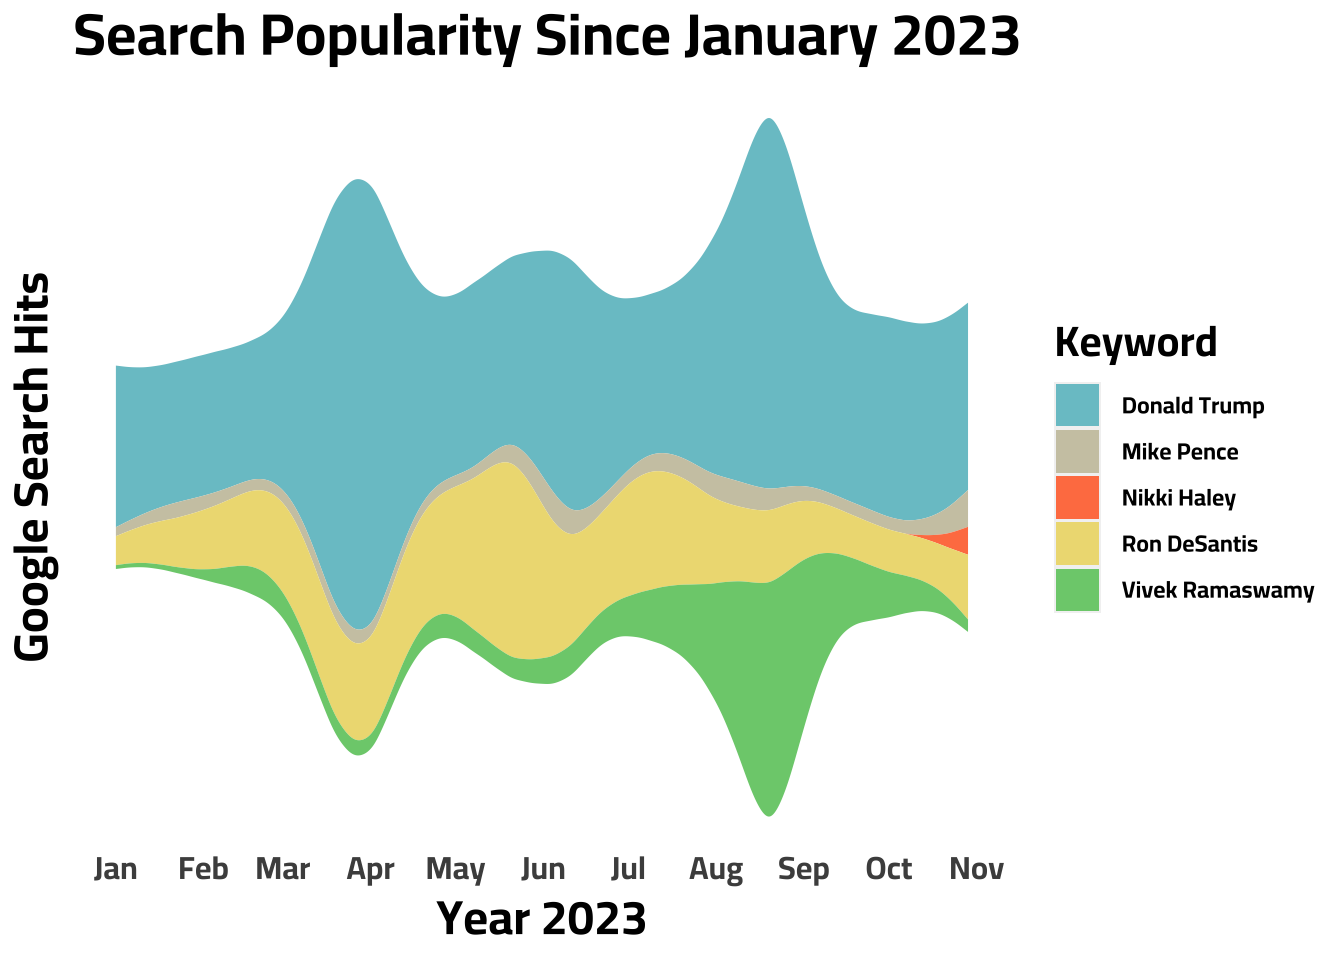
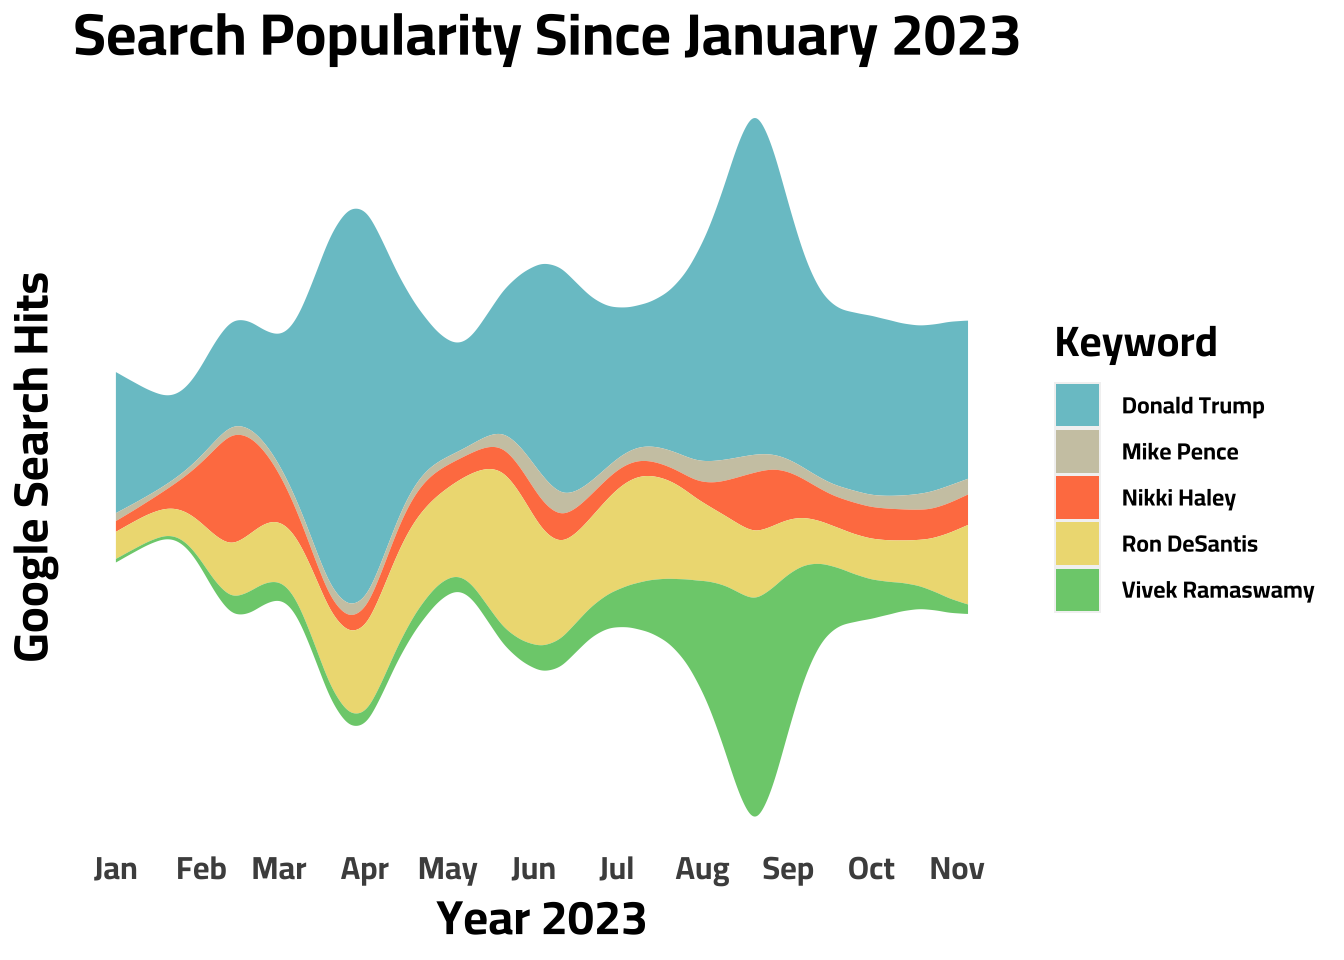
StreamGraph Update

diff --git a/_site/blog.html b/_site/blog.html
@@ -178,7 +178,7 @@ ul.task-list li input[type="checkbox"] {
 
 <div class="quarto-listing quarto-listing-container-default" id="listing-listing">
 <div class="list quarto-listing-default">
-<div class="quarto-post image-right" data-index="0" data-categories="Life Hacks,Commentary" data-listing-date-sort="1697760000000" data-listing-file-modified-sort="1699186896360" data-listing-date-modified-sort="NaN" data-listing-reading-time-sort="8">
+<div class="quarto-post image-right" data-index="0" data-categories="Life Hacks,Commentary" data-listing-date-sort="1697760000000" data-listing-file-modified-sort="1699532613832" data-listing-date-modified-sort="NaN" data-listing-reading-time-sort="8">
 <div class="thumbnail">
 <p><a href="./posts/path_to_datascience/index.html"> <img src="./posts/path_to_datascience/tile.png" class="thumbnail-image"> </a></p>
 </div>
@@ -209,7 +209,7 @@ Oct 20, 2023
 </a>
 </div>
 </div>
-<div class="quarto-post image-right" data-index="1" data-categories="Google Trends,Data Journalism,Politics,CICD" data-listing-date-sort="1696377600000" data-listing-file-modified-sort="1699186896361" data-listing-date-modified-sort="NaN" data-listing-reading-time-sort="7">
+<div class="quarto-post image-right" data-index="1" data-categories="Google Trends,Data Journalism,Politics,CICD" data-listing-date-sort="1696377600000" data-listing-file-modified-sort="1699532613833" data-listing-date-modified-sort="NaN" data-listing-reading-time-sort="7">
 <div class="thumbnail">
 <p><a href="./posts/primary_stream/index.html"> <img src="././about_files/primary_1.png" class="thumbnail-image"> </a></p>
 </div>
@@ -246,7 +246,7 @@ Oct 4, 2023
 </a>
 </div>
 </div>
-<div class="quarto-post image-right" data-index="2" data-categories="CICD,Quarto" data-listing-date-sort="1694044800000" data-listing-file-modified-sort="1699186896355" data-listing-date-modified-sort="NaN" data-listing-reading-time-sort="8">
+<div class="quarto-post image-right" data-index="2" data-categories="CICD,Quarto" data-listing-date-sort="1694044800000" data-listing-file-modified-sort="1699532613828" data-listing-date-modified-sort="NaN" data-listing-reading-time-sort="8">
 <div class="thumbnail">
 <p><a href="./posts/cicd_primary/index.html"> <img src="https://external-content.duckduckgo.com/iu/?u=https%3A%2F%2Fwww.adictosaltrabajo.com%2Fwp-content%2Fuploads%2F2020%2F10%2Fandroid-github-actions-setup-image-35b6a79fea4a7289acb6796cd4ad05b4.png&amp;f=1&amp;nofb=1&amp;ipt=b02a4ecfb6e2d666f35916b643a6f3e9907e880252d1e19d3eda47521252e9c3&amp;ipo=images" class="thumbnail-image"> </a></p>
 </div>
@@ -277,7 +277,7 @@ Sep 7, 2023
 </a>
 </div>
 </div>
-<div class="quarto-post image-right" data-index="3" data-categories="Life Hacks,Quarto" data-listing-date-sort="1688601600000" data-listing-file-modified-sort="1699186896364" data-listing-date-modified-sort="NaN" data-listing-reading-time-sort="3">
+<div class="quarto-post image-right" data-index="3" data-categories="Life Hacks,Quarto" data-listing-date-sort="1688601600000" data-listing-file-modified-sort="1699532613834" data-listing-date-modified-sort="NaN" data-listing-reading-time-sort="3">
 <div class="thumbnail">
 <p><a href="./posts/simple_analytics/index.html"> <img src="./about_files/Simple_Analytics.png" class="thumbnail-image"> </a></p>
 </div>
@@ -308,7 +308,7 @@ Jul 6, 2023
 </a>
 </div>
 </div>
-<div class="quarto-post image-right" data-index="4" data-categories="Data Journalism,Google Trends,Politics" data-listing-date-sort="1687824000000" data-listing-file-modified-sort="1699186896356" data-listing-date-modified-sort="NaN" data-listing-reading-time-sort="7">
+<div class="quarto-post image-right" data-index="4" data-categories="Data Journalism,Google Trends,Politics" data-listing-date-sort="1687824000000" data-listing-file-modified-sort="1699532613828" data-listing-date-modified-sort="NaN" data-listing-reading-time-sort="7">
 <div class="thumbnail">
 <p><a href="./posts/google_trends/index.html"> <img src="./about_files/byteman.png" class="thumbnail-image"> </a></p>
 </div>
@@ -342,7 +342,7 @@ Jun 27, 2023
 </a>
 </div>
 </div>
-<div class="quarto-post image-right" data-index="5" data-categories="Data Journalism,LDS,R" data-listing-date-sort="1675728000000" data-listing-file-modified-sort="1699186896356" data-listing-date-modified-sort="NaN" data-listing-reading-time-sort="4">
+<div class="quarto-post image-right" data-index="5" data-categories="Data Journalism,LDS,R" data-listing-date-sort="1675728000000" data-listing-file-modified-sort="1699532613829" data-listing-date-modified-sort="NaN" data-listing-reading-time-sort="4">
 <div class="thumbnail">
 <p><a href="./posts/income_myth/index.html"> <img src="./about_files/LDS_myth_0.png" class="thumbnail-image"> </a></p>
 </div>
@@ -376,7 +376,7 @@ Feb 7, 2023
 </a>
 </div>
 </div>
-<div class="quarto-post image-right" data-index="6" data-categories="Life Hacks,Quarto" data-listing-date-sort="1662076800000" data-listing-file-modified-sort="1699186896362" data-listing-date-modified-sort="NaN" data-listing-reading-time-sort="4">
+<div class="quarto-post image-right" data-index="6" data-categories="Life Hacks,Quarto" data-listing-date-sort="1662076800000" data-listing-file-modified-sort="1699532613834" data-listing-date-modified-sort="NaN" data-listing-reading-time-sort="4">
 <div class="thumbnail">
 <p><a href="./posts/resume/index.html"> <img src="./about_files/resume_2.png" class="thumbnail-image"> </a></p>
 </div>
@@ -407,7 +407,7 @@ Sep 2, 2022
 </a>
 </div>
 </div>
-<div class="quarto-post image-right" data-index="7" data-categories="Survey Research,Data Journalism,LDS" data-listing-date-sort="1646265600000" data-listing-file-modified-sort="1699186896353" data-listing-date-modified-sort="NaN" data-listing-reading-time-sort="7">
+<div class="quarto-post image-right" data-index="7" data-categories="Survey Research,Data Journalism,LDS" data-listing-date-sort="1646265600000" data-listing-file-modified-sort="1699532613826" data-listing-date-modified-sort="NaN" data-listing-reading-time-sort="7">
 <div class="thumbnail">
 <p><a href="./posts/7_facts/index.html"> <img src="https://www.ldstemple.pics/wp-content/uploads/washington-dc-temple-final-sunset-600x600.jpg" class="thumbnail-image"> </a></p>
 </div>
@@ -441,7 +441,7 @@ Mar 3, 2022
 </a>
 </div>
 </div>
-<div class="quarto-post image-right" data-index="8" data-categories="Data Journalism,R" data-listing-date-sort="1618012800000" data-listing-file-modified-sort="1699186896355" data-listing-date-modified-sort="NaN" data-listing-reading-time-sort="4">
+<div class="quarto-post image-right" data-index="8" data-categories="Data Journalism,R" data-listing-date-sort="1618012800000" data-listing-file-modified-sort="1699532613828" data-listing-date-modified-sort="NaN" data-listing-reading-time-sort="4">
 <div class="thumbnail">
 <p><a href="./posts/facebook_data/index.html"> <img src="./about_files/fb_icon" class="thumbnail-image"> </a></p>
 </div>
@@ -472,7 +472,7 @@ Apr 10, 2021
 </a>
 </div>
 </div>
-<div class="quarto-post image-right" data-index="9" data-categories="Data Journalism,R,Survey Research,LDS,Politics" data-listing-date-sort="1607472000000" data-listing-file-modified-sort="1699186896357" data-listing-date-modified-sort="NaN" data-listing-reading-time-sort="8">
+<div class="quarto-post image-right" data-index="9" data-categories="Data Journalism,R,Survey Research,LDS,Politics" data-listing-date-sort="1607472000000" data-listing-file-modified-sort="1699532613829" data-listing-date-modified-sort="NaN" data-listing-reading-time-sort="8">
 <div class="thumbnail">
 <p><a href="./posts/lds_gop/index.html"> <img src="./about_files/iu-3.jpeg" class="thumbnail-image"> </a></p>
 </div>
@@ -512,7 +512,7 @@ Dec 9, 2020
 </a>
 </div>
 </div>
-<div class="quarto-post image-right" data-index="10" data-categories="Data Journalism,R" data-listing-date-sort="1594339200000" data-listing-file-modified-sort="1699186896354" data-listing-date-modified-sort="NaN" data-listing-reading-time-sort="7">
+<div class="quarto-post image-right" data-index="10" data-categories="Data Journalism,R" data-listing-date-sort="1594339200000" data-listing-file-modified-sort="1699532613827" data-listing-date-modified-sort="NaN" data-listing-reading-time-sort="7">
 <div class="thumbnail">
 <p><a href="./posts/cars/index.html"> <img src="https://media.giphy.com/media/rUE9CTmsYMbbOz2MqD/giphy.gif" class="thumbnail-image"> </a></p>
 </div>
@@ -543,7 +543,7 @@ Jul 10, 2020
 </a>
 </div>
 </div>
-<div class="quarto-post image-right" data-index="11" data-categories="Data Journalism,R,Shiny" data-listing-date-sort="1591660800000" data-listing-file-modified-sort="1699186896358" data-listing-date-modified-sort="NaN" data-listing-reading-time-sort="7">
+<div class="quarto-post image-right" data-index="11" data-categories="Data Journalism,R,Shiny" data-listing-date-sort="1591660800000" data-listing-file-modified-sort="1699532613830" data-listing-date-modified-sort="NaN" data-listing-reading-time-sort="7">
 <div class="thumbnail">
 <p><a href="./posts/mobility/index.html"> <img src="./about_files/iu-2.jpeg" class="thumbnail-image"> </a></p>
 </div>

diff --git a/_site/projects.html b/_site/projects.html
@@ -178,7 +178,7 @@ ul.task-list li input[type="checkbox"] {
 
 <div class="quarto-listing quarto-listing-container-grid" id="listing-listing">
 <div class="list grid quarto-listing-cols-3">
-<div class="g-col-1" data-index="0" data-categories="Capstone,Python,Stats" data-listing-date-sort="1682899200000" data-listing-file-modified-sort="1699186896392" data-listing-date-modified-sort="NaN" data-listing-reading-time-sort="4">
+<div class="g-col-1" data-index="0" data-categories="Capstone,Python,Stats" data-listing-date-sort="1682899200000" data-listing-file-modified-sort="1699532613850" data-listing-date-modified-sort="NaN" data-listing-reading-time-sort="4">
 <a href="./projects/internet_archive/index.html" class="quarto-grid-link">
 <div class="quarto-grid-item card h-100 card-left">
 <p class="card-img-top">
@@ -211,7 +211,7 @@ May 1, 2023
 </div>
 </a>
 </div>
-<div class="g-col-1" data-index="1" data-categories="Python,Stats,Dataviz" data-listing-date-sort="1660867200000" data-listing-file-modified-sort="1699186896383" data-listing-date-modified-sort="NaN" data-listing-reading-time-sort="10">
+<div class="g-col-1" data-index="1" data-categories="Python,Stats,Dataviz" data-listing-date-sort="1660867200000" data-listing-file-modified-sort="1699532613845" data-listing-date-modified-sort="NaN" data-listing-reading-time-sort="10">
 <a href="./projects/bayesian_county/index.html" class="quarto-grid-link">
 <div class="quarto-grid-item card h-100 card-left">
 <p class="card-img-top">
@@ -244,7 +244,7 @@ Aug 19, 2022
 </div>
 </a>
 </div>
-<div class="g-col-1" data-index="2" data-categories="CI/CD,R,Dataviz" data-listing-date-sort="1636329600000" data-listing-file-modified-sort="1699186896384" data-listing-date-modified-sort="NaN" data-listing-reading-time-sort="3">
+<div class="g-col-1" data-index="2" data-categories="CI/CD,R,Dataviz" data-listing-date-sort="1636329600000" data-listing-file-modified-sort="1699532613845" data-listing-date-modified-sort="NaN" data-listing-reading-time-sort="3">
 <a href="./projects/covid_update/index.html" class="quarto-grid-link">
 <div class="quarto-grid-item card h-100 card-left">
 <p class="card-img-top">
@@ -277,7 +277,7 @@ Nov 8, 2021
 </div>
 </a>
 </div>
-<div class="g-col-1" data-index="3" data-categories="Dataviz,Stats,R" data-listing-date-sort="1600387200000" data-listing-file-modified-sort="1699186896385" data-listing-date-modified-sort="NaN" data-listing-reading-time-sort="2">
+<div class="g-col-1" data-index="3" data-categories="Dataviz,Stats,R" data-listing-date-sort="1600387200000" data-listing-file-modified-sort="1699532613847" data-listing-date-modified-sort="NaN" data-listing-reading-time-sort="2">
 <a href="./projects/election_model/index.html" class="quarto-grid-link">
 <div class="quarto-grid-item card h-100 card-left">
 <p class="card-img-top">
@@ -310,7 +310,7 @@ Sep 18, 2020
 </div>
 </a>
 </div>
-<div class="g-col-1" data-index="4" data-categories="R,Shiny" data-listing-date-sort="1596153600000" data-listing-file-modified-sort="1699186896392" data-listing-date-modified-sort="NaN" data-listing-reading-time-sort="2">
+<div class="g-col-1" data-index="4" data-categories="R,Shiny" data-listing-date-sort="1596153600000" data-listing-file-modified-sort="1699532613850" data-listing-date-modified-sort="NaN" data-listing-reading-time-sort="2">
 <a href="./projects/peanuts/index.html" class="quarto-grid-link">
 <div class="quarto-grid-item card h-100 card-left">
 <p class="card-img-top">
@@ -340,7 +340,7 @@ Jul 31, 2020
 </div>
 </a>
 </div>
-<div class="g-col-1" data-index="5" data-categories="Capstone,R,Stats" data-listing-date-sort="1587772800000" data-listing-file-modified-sort="1699186896394" data-listing-date-modified-sort="NaN" data-listing-reading-time-sort="6">
+<div class="g-col-1" data-index="5" data-categories="Capstone,R,Stats" data-listing-date-sort="1587772800000" data-listing-file-modified-sort="1699532613853" data-listing-date-modified-sort="NaN" data-listing-reading-time-sort="6">
 <a href="./projects/star_wars_capstone/index.html" class="quarto-grid-link">
 <div class="quarto-grid-item card h-100 card-left">
 <p class="card-img-top">

diff --git a/_site/posts/primary_stream/index.html b/_site/posts/primary_stream/index.html
@@ -181,7 +181,7 @@ Note
 </div>
 </div>
 <div class="callout-body-container callout-body">
-<p>This graph is updated on a daily basis to provide continuous context to the GOP Primary Election. This graph was last updated: 12:21:47 on 05 Nov 2023</p>
+<p>This graph is updated on a daily basis to provide continuous context to the GOP Primary Election. This graph was last updated: 12:23:42 on 09 Nov 2023</p>
 </div>
 </div>
 <div class="cell">
@@ -234,7 +234,7 @@ Note
 </div>
 </div>
 <div class="callout-body-container callout-body">
-<p>This graph is updated on a daily basis to provide continuous context to the GOP Primary Election. This graph was last updated: 12:21:54 on 05 Nov 2023</p>
+<p>This graph is updated on a daily basis to provide continuous context to the GOP Primary Election. This graph was last updated: 12:23:49 on 09 Nov 2023</p>
 </div>
 </div>
 <p>This graph is provided to give a barometer reading of a candidates <em>recent</em> popularity/news coverage.</p>
